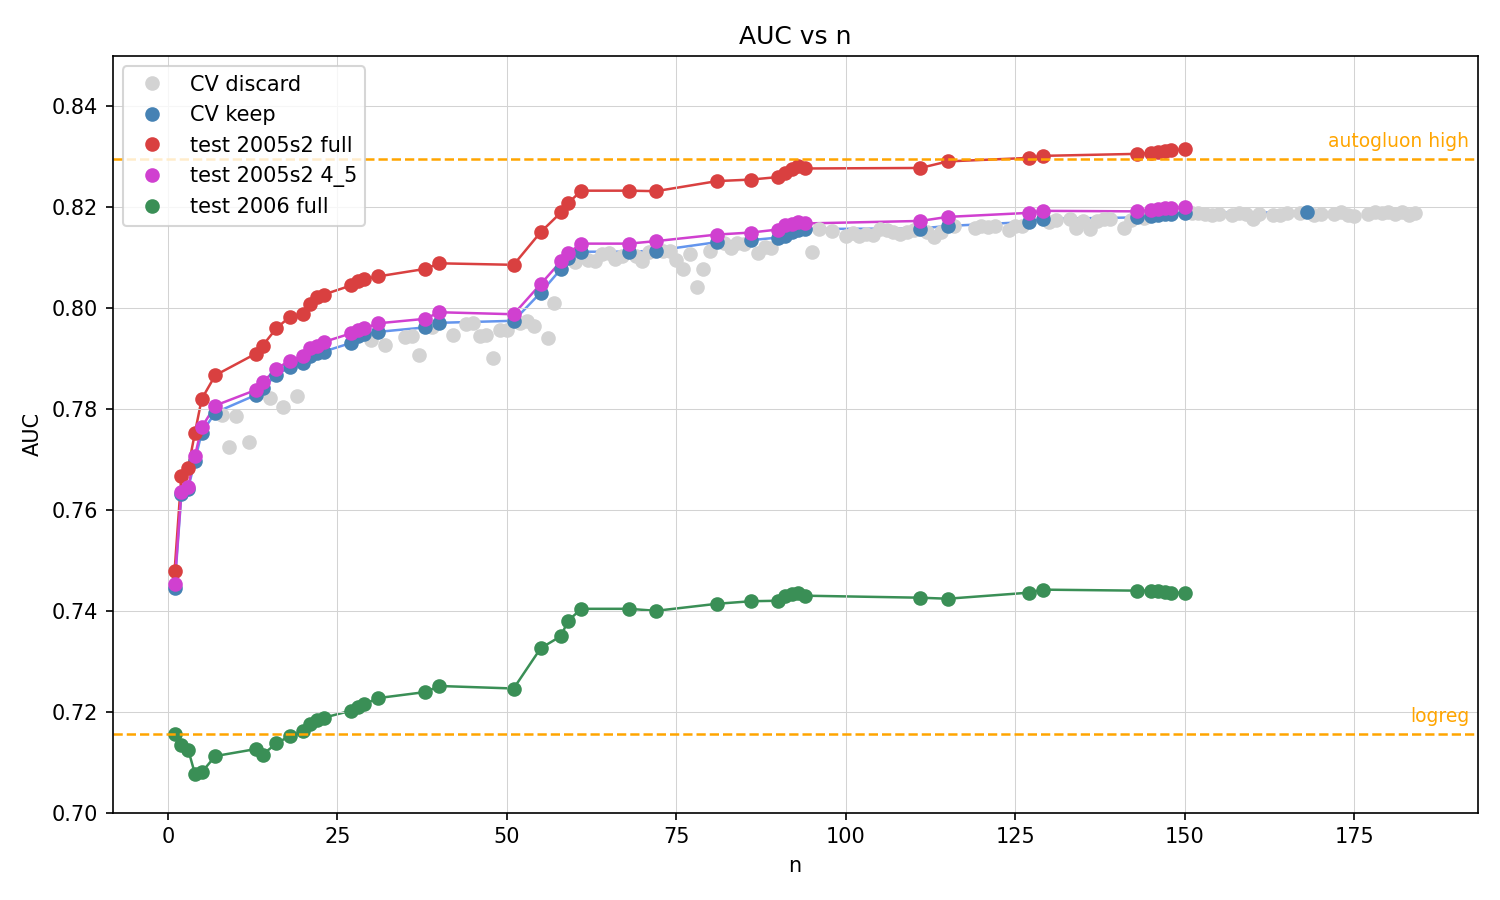
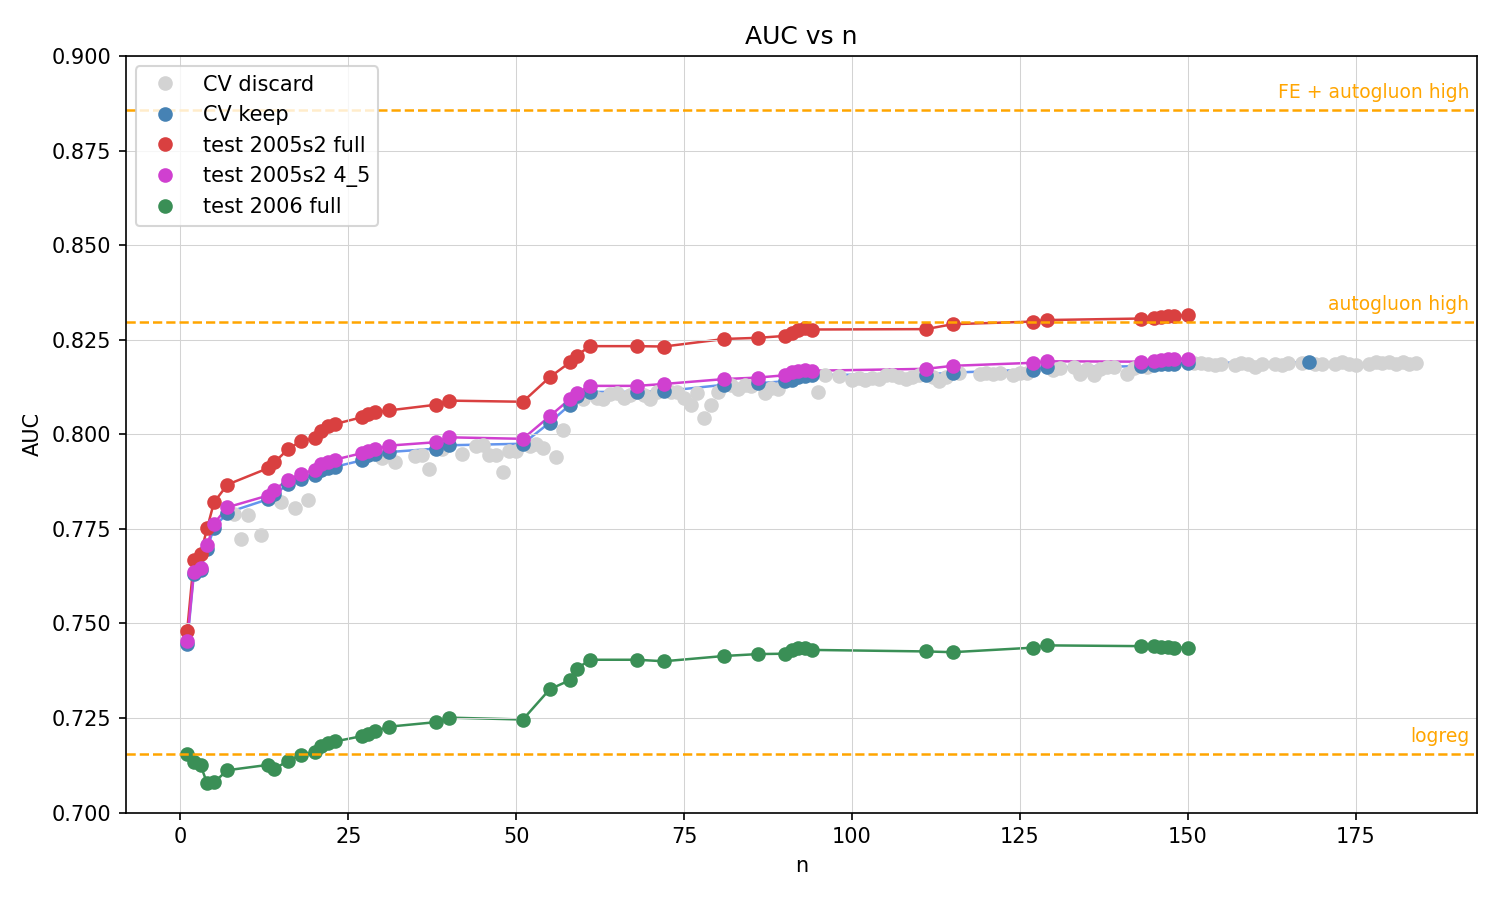
results

diff --git a/analysis/a04-autogluon/train-ag-FE.py b/analysis/a04-autogluon/train-ag-FE.py
@@ -1,0 +1,69 @@
+# pip install autogluon.tabular[all]
+
+import pandas as pd
+import time
+from pathlib import Path
+from autogluon.tabular import TabularPredictor
+import numpy as np
+
+
+data_dir = Path(__file__).parent / "../../data-cache"
+train = pd.read_csv(f"{data_dir}/2005-slice1-100k.csv")
+
+cat_cols = ["Month", "DayofMonth", "DayOfWeek", "UniqueCarrier", "Origin", "Dest"]
+num_cols = ["DepTime", "Distance"]
+target   = "dep_delayed_15min"
+
+
+cat_levels = {col: sorted(train[col].unique()) for col in cat_cols}
+
+def prepare(df):
+    df_out = df[num_cols + cat_cols].copy()
+    # Convert HHMM to minutes since midnight
+    df_out["DepMinutes"] = (df["DepTime"] // 100) * 60 + (df["DepTime"] % 100)
+    df_out["DepMinuteOfHour"] = df["DepTime"] % 100
+    df_out["DepTime_sin"] = np.sin(2 * np.pi * df_out["DepMinutes"] / 1440)
+    df_out["DepTime_cos"] = np.cos(2 * np.pi * df_out["DepMinutes"] / 1440)
+    df_out["LogDistance"] = np.log1p(df["Distance"])
+    df_out["DepHour"] = pd.Categorical((df["DepTime"] // 100).clip(0, 23))
+    df_out["DistBin"] = pd.Categorical(pd.cut(df["Distance"], bins=[0, 300, 700, 1500, 5000], labels=["short", "medium", "long", "xlong"]))
+    df_out["DepTimeFloat"] = df["DepTime"] / 100.0
+    for col in cat_cols:
+        df_out[col] = pd.Categorical(
+            df_out[col].where(df_out[col].isin(cat_levels[col])),
+            categories=cat_levels[col],
+        )
+    df_out[target] = (df[target] == "Y").astype(int)
+    return df_out
+
+train = prepare(train)
+
+
+t0 = time.time()
+predictor = TabularPredictor(
+    label=target,
+    eval_metric="roc_auc",
+    path=".autogluon-model",
+).fit(
+    train,
+    presets="high_quality",
+)
+print(f"Training time: {time.time() - t0:.1f}s")
+
+leaderboard = predictor.leaderboard(silent=True)
+print(leaderboard[["model", "score_val", "fit_time"]].to_string())
+
+
+
+from sklearn.metrics import roc_auc_score
+
+test = pd.read_csv(f"{data_dir}/2005-slice2-1m.csv")
+test = prepare(test)
+
+t0 = time.time()
+y_prob = predictor.predict_proba(test).iloc[:, 1]
+test_auc = roc_auc_score(test[target], y_prob)
+print(f"Test time: {time.time() - t0:.1f}s")
+print(f"Test AUC: {test_auc:.4f}")
+
+

diff --git a/analysis/a04-autogluon/plot_auc_history.py b/analysis/a04-autogluon/plot_auc_history.py
@@ -22,7 +22,7 @@ plt.plot(df.loc[keep, "n"], df.loc[keep, "test_auc_2006_full"], color="#3a8f56",
 plt.plot(df.loc[keep, "n"], df.loc[keep, "test_auc_2006_full"], marker="o", color="#3a8f56", linestyle="none", label="test 2006 full", zorder=2)
 plt.xlabel("n")
 plt.ylabel("AUC")
-plt.ylim(ymin=0.70, ymax=0.85)
+plt.ylim(ymin=0.70, ymax=0.90)
 plt.title("AUC vs n")
 plt.grid(True, color="lightgrey", linewidth=0.5)
 plt.axhline(0.8296, color="orange", linewidth=1.2, linestyle="--")
@@ -32,7 +32,11 @@ plt.annotate("autogluon high", xy=(1, 0.8296), xycoords=("axes fraction", "data"
 plt.axhline(0.7155, color="orange", linewidth=1.2, linestyle="--")
 plt.annotate("logreg", xy=(1, 0.7155), xycoords=("axes fraction", "data"),
              xytext=(-4, 4), textcoords="offset points",
-             ha="right", va="bottom", color="orange", fontsize=9)             
+             ha="right", va="bottom", color="orange", fontsize=9)    
+plt.axhline(0.8857, color="orange", linewidth=1.2, linestyle="--")
+plt.annotate("FE + autogluon high", xy=(1, 0.8857), xycoords=("axes fraction", "data"),
+             xytext=(-4, 4), textcoords="offset points",
+             ha="right", va="bottom", color="orange", fontsize=9)                        
 plt.legend()
 plt.tight_layout()
 plt.savefig(Path(__file__).parent / "auc_history.png", dpi=150)
